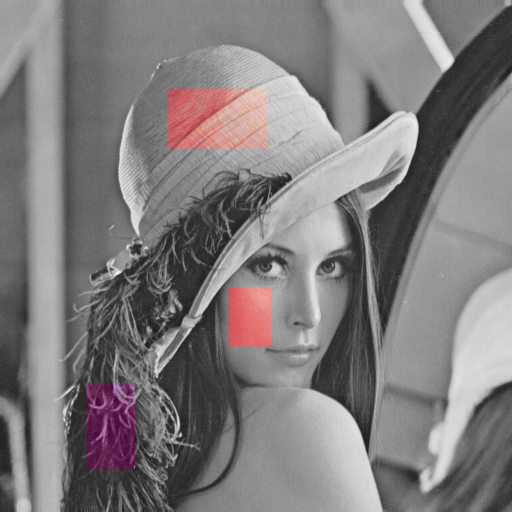
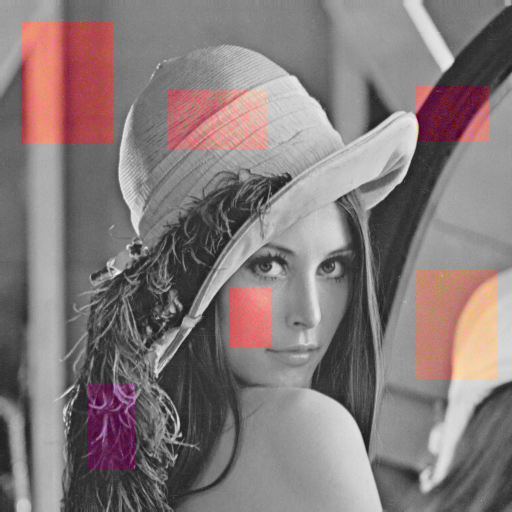
finished swatch color diffusion

diff --git a/lib/src/WelshColorisation.cpp b/lib/src/WelshColorisation.cpp
@@ -122,7 +122,7 @@ void luminance_remap(Mat& src, Mat& target) {
  * @param prm 
  * @return Rect 
  */
-Rect get_neighborhood_rect(Mat& img, int x, int y, params prm) {
+Rect get_neighborhood_rect(const Mat& img, int x, int y, params prm) {
     int half_size = prm->neighborhood_window_size / 2;
     int size = prm->neighborhood_window_size;
     int tx = CLAMP(x - half_size, 0, img.cols);
@@ -197,14 +197,15 @@ void jittered_sampling(Mat& src, params prm, Vec2d * neighborhood_stats, std::ve
  * @param target_stats 
  * @return int 
  */
-int find_best_matching_pixel(params prm, Vec2d * neighborhood_stat, const Vec2d& target_stats) {
-    double diffs[prm->samples];
+int find_best_matching_pixel(params prm, Vec2d * neighborhood_stat, int size, const Vec2d& target_stats) {
+    double diffs[size];
     double target_mean, src_mean, target_stddev, src_stddev;
     double weight_mean = prm->mean_weight;
     double weight_dev = 1.0 - prm->mean_weight; 
+    
     // compute the weighted square difference between the samples and given neighborhoods
     #pragma omp parallel for
-    for (uint i = 0; i < prm->samples; i++) {
+    for (int i = 0; i < size; i++) {
         target_mean = target_stats[0];
         target_stddev = target_stats[1];
         src_mean = neighborhood_stat[i][0];
@@ -212,11 +213,12 @@ int find_best_matching_pixel(params prm, Vec2d * neighborhood_stat, const Vec2d&
         diffs[i] = (weight_mean * (target_mean - src_mean) * (target_mean - src_mean)) 
                 + (weight_dev * (target_stddev - src_stddev) * (target_stddev - src_stddev)); 
     }
+
     // find the minimum value among the squared differences
     double min_diff = INT_MAX;
     int min_index = 0;
     #pragma omp parallel for
-    for (uint i = 0; i < prm->samples; i++) {
+    for (int i = 0; i < size; i++) {
         if (diffs[i] < min_diff) {
             min_diff = diffs[i];
             min_index = i;
@@ -234,11 +236,11 @@ int find_best_matching_pixel(params prm, Vec2d * neighborhood_stat, const Vec2d&
  * @param neighborhood_stat 
  */
 void transfer_color(Mat& src, Mat& target, params prm, Vec2d * neighborhood_stat, const std::vector<Vec2i>& neighborhood_pos) {
-    #pragma omp parallel for collapse(2)
+    // #pragma omp parallel for collapse(2)
     for (int x = 0; x < target.cols; x++) {
         for (int y = 0; y < target.rows; y++) {
             Vec2d stats = compute_pixel_neighborhood_stat(prm, target, x, y);
-            int match_index = find_best_matching_pixel(prm, neighborhood_stat, stats);
+            int match_index = find_best_matching_pixel(prm, neighborhood_stat, prm->samples, stats);
             Vec3b color = target.at<Vec3b>(y, x);
             Vec3b matching_color = src.at<Vec3b>(neighborhood_pos[match_index][1], neighborhood_pos[match_index][0]);
             color[1] = matching_color[1];
@@ -311,52 +313,74 @@ double compute_sq_diff(const Mat& target, const Vec4i& rect, int x, int y, int s
  * @param target_swatches list of all swatches in the target image
  * @return the coordinate of the colorised pixel (in a swatch) that minimise the error distance and the index of the swatch the pixel is from
  */
-Vec2i get_minimum_error_distance(const Mat& target, int x, int y, const std::vector<std::vector<Vec2i>>& swatch_samples, const vec_int& target_rect, params prm) {
+int get_minimum_error_distance(const Mat& target, int x, int y, const std::vector<Vec2i>& swatch_samples, const vec_int& target_rect, params prm) {
     double min_error_dist = 0xFFFF; // minimum error distance between the pixel neighborhood and a colorised pixel neighborhood
-    double min_sx = 0, min_sy = 0;  // the coordinate of the colorised pixel that minimise the error distance
-    double sq_sum = 0;
+    double min_index = 0;
     // iterate over all colorised pixel and compute the error distance between the given pixel and the iterated pixel
-
-    for (size_t i = 0; i < swatch_samples.size(); i++) {
-        std::vector<Vec2i> samples = swatch_samples[i];
-        #pragma omp parallel for
-        for (size_t j = 0; j < samples.size(); j++) {
-            Vec2i sample =  samples[j];
-            sample[0] += target_rect[4 * i];
-            sample[1] += target_rect[4 * i + 1];
-            Vec4i rect = get_min_neighbordhood_rect(target, x, y, sample[0], sample[1], prm);
-            Mat a = target(Rect(x-rect[0], y-rect[1], rect[2], rect[3]));
-            Mat b = target(Rect(sample[0]-rect[0], sample[1]-rect[1], rect[2], rect[3]));
-            sq_sum = cv::norm(a, b);
-            // sq_sum = compute_sq_diff(target, rect, x, y, sample[0], sample[1]);
-            if (sq_sum < min_error_dist) {
-                min_error_dist = sq_sum;
-                min_sx = sample[0];
-                min_sy = sample[1];
-            }
+    Vec2i sample;
+    Vec4i rect;
+    // #pragma omp parallel for
+    for (size_t j = 0; j < swatch_samples.size(); j++) {
+        sample = swatch_samples[j];
+        rect = get_min_neighbordhood_rect(target, x, y, sample[0], sample[1], prm);
+        Mat a = target(Rect(x-rect[0], y-rect[1], rect[2], rect[3]));
+        Mat b = target(Rect(sample[0]-rect[0], sample[1]-rect[1], rect[2], rect[3]));
+        Mat c;
+        cv::absdiff(a, b, c);
+        c.convertTo(c, CV_32F);  // cannot make a square on 8 bits
+        c = c.mul(c);   
+        Scalar s = sum(c);
+        // sq_sum = compute_sq_diff(target, rect, x, y, sample[0], sample[1]);
+        if (s[0] < min_error_dist) {
+            min_error_dist = s[0];
+            min_index = j;
         }
     }
-    return Vec2i(min_sx, min_sy);
+    return min_index;
 }
 
 void diffuse_color(Mat& target, std::vector<Mat>& target_swatches, const std::vector<int>& target_rect, params prm) {
-    std::vector<std::vector<Vec2i>> swatch_samples;
+    // get all samples from all swatches
+    std::vector<Vec2i> swatch_samples; 
     for (size_t i = 0; i < target_swatches.size(); i++) {
         std::vector<Vec2i> neighborhood_pos;
         jittered_sampling(target_swatches[i], prm, NULL, neighborhood_pos);
-        swatch_samples.push_back(neighborhood_pos);
+        for (size_t j = 0; j < neighborhood_pos.size(); j++) {
+            neighborhood_pos[j][0] += target_rect[4 * i];
+            neighborhood_pos[j][1] += target_rect[4 * i + 1];
+        }
+        swatch_samples.insert(swatch_samples.end(), neighborhood_pos.begin(), neighborhood_pos.end());
     }
+
+    // compute their stats
+    Vec2d * stats = (Vec2d *) malloc(sizeof(Vec2d) * swatch_samples.size());
+    exit_if(stats == NULL, "error allocating stats array");
+    for (size_t i = 0; i < swatch_samples.size(); i++) {
+        stats[i] = compute_pixel_neighborhood_stat(prm, target, swatch_samples[i][0], swatch_samples[i][1]);
+    }
+
+    // for (size_t i = 0; i < swatch_samples.size(); i++) {
+    //     Vec2i pos = swatch_samples[i];
+    //     Vec3b color = target.at<Vec3b>(pos[1], pos[0]);
+    //     target.at<Vec3b>(pos[1], pos[0]) = Vec3b(color[0], 100, 0);
+    // }
+
     // #pragma omp parallel for collapse(2)
     for (int x = 0; x < target.cols; x++) {
         for (int y = 0; y < target.rows; y++) {
-            Vec3b pixel = target.at<Vec3b>(x, y);
-            // skip already colorised pixels
-            if (pixel[1] != pixel[2] || pixel[1] != 128) continue;
-            // iterate all swatches pixels and minimise error distance
-            Vec2i min_color_pixel = get_minimum_error_distance(target, x, y, swatch_samples, target_rect, prm);
-            target.at<Vec3b>(x, y) = target.at<Vec3b>(min_color_pixel[0], min_color_pixel[1]);
+            Vec3b pixel = target.at<Vec3b>(y, x);
+            if (pixel[1] != pixel[2] || pixel[1] != 128) continue; // skip already colorised pixels
+            Vec2d pixel_stats = compute_pixel_neighborhood_stat(prm, target, x, y);
+            int match_index = find_best_matching_pixel(prm, stats, swatch_samples.size(), pixel_stats);
+            // int match_index = get_minimum_error_distance(target, x, y, swatch_samples, target_rect, prm);
+            // std::cout << match_index << std::endl;
+            Vec3b matching_color = target.at<Vec3b>(swatch_samples[match_index][1], swatch_samples[match_index][0]);
+            pixel[1] = matching_color[1];
+            pixel[2] = matching_color[2];
+            target.at<Vec3b>(y, x) = pixel; 
         }
     }
+    free(stats);
 }
 
 /**
@@ -371,7 +395,7 @@ void diffuse_color(Mat& target, std::vector<Mat>& target_swatches, const std::ve
  * @param colorisation 
  */
 void run(Mat& src, Mat& target, params prm) {
-    // convert source and target images to LAB color space
+    // convert source and target images to LAB col or space
     cvtColor(src, src, COLOR_BGR2Lab);
     cvtColor(target, target, COLOR_BGR2Lab);    
 
@@ -390,21 +414,21 @@ void run_swatch(Mat& src, Mat& target, const vec_int& src_swatches, const vec_in
     // convert source and target images to LAB color space
     cvtColor(src, src, COLOR_BGR2Lab);
     cvtColor(target, target, COLOR_BGR2Lab);   
-
+    
     // compute the sub matrices for each swatch
     std::vector<Mat> src_swatch_mat, target_swatch_mat;
     get_swatch_matrices(src, target, src_swatches, target_swatches, src_swatch_mat, target_swatch_mat);
-
+    
     // apply general algo on each swatch (luminance remap + sampling + color transfer)
     int nb_swatches = src_swatches.size() / 4;
     int samples_save = prm->samples;
-    prm->samples = 50; // temporarily lower samples for the swatch color transfer
+    prm->samples = 64; // temporarily lower samples for the swatch color transfer
     for (int i = 0; i < nb_swatches; i++) {
         sample_and_transfer(src_swatch_mat[i], target_swatch_mat[i], prm);
     }
-    prm->samples = samples_save;
 
     diffuse_color(target, target_swatch_mat, target_swatches, prm);
+    prm->samples = samples_save;
 
     // LAB->BGR conversion
     cvtColor(target, target, COLOR_Lab2BGR);    

diff --git a/lib/src/test.cpp b/lib/src/test.cpp
@@ -19,9 +19,11 @@ int main(int argc, char ** argv) {
     const char * target_path = argv[2]; 
     const char * dst_path = argv[3]; 
     welsh_colorisation(src_path, target_path, dst_path, NULL);
-    // int src_rect_data[] = {168, 89, 100, 60, 229, 288, 43, 59, 87, 384, 49, 86};
+    // int src_rect_data[] = {168, 89, 100, 60, 229, 288, 43, 59, 87, 384, 49, 86, 21, 22, 93, 122, 415, 269, 82, 110, 416, 85, 73, 56};
+    // int src_rect_data[] = {529, 440, 127, 85, 8, 10, 150, 214, 752, 269, 70, 20};
     // std::vector<int> src_rect(src_rect_data, src_rect_data + sizeof(src_rect_data) / sizeof(src_rect_data[0]));
-    // int target_rect_data[] = {168, 89, 100, 60, 229, 288, 43, 59, 87, 384, 49, 86};
+    // int target_rect_data[] = {168, 89, 100, 60, 229, 288, 43, 59, 87, 384, 49, 86, 21, 22, 93, 122, 415, 269, 82, 110, 416, 85, 73, 56};
+    // int target_rect_data[] = {722, 416, 278, 408, 8, 220, 250, 334, 506, 372, 11, 89};
     // std::vector<int> target_rect(target_rect_data, target_rect_data + sizeof(target_rect_data) / sizeof(target_rect_data[0]));
     // welsh_colorisation_swatches(src_path, target_path, dst_path, NULL, src_rect, target_rect);
     Mat result = imread(dst_path);

diff --git a/lib/include/WelshColorisation.hpp b/lib/include/WelshColorisation.hpp
@@ -46,6 +46,16 @@ typedef struct params_s * params;
  */
 void welsh_colorisation(const char * source_img, const char * target_img, const char * dst_img, params prm);
 
+/**
+ * @brief 
+ * 
+ * @param source_img 
+ * @param target_img 
+ * @param dst_img 
+ * @param prm 
+ * @param src_rect 
+ * @param target_rect 
+ */
 void welsh_colorisation_swatches(const char * source_img, const char * target_img, const char * dst_img, params prm, const std::vector<int>& src_rect, const std::vector<int>& target_rect);
 
 #endif
